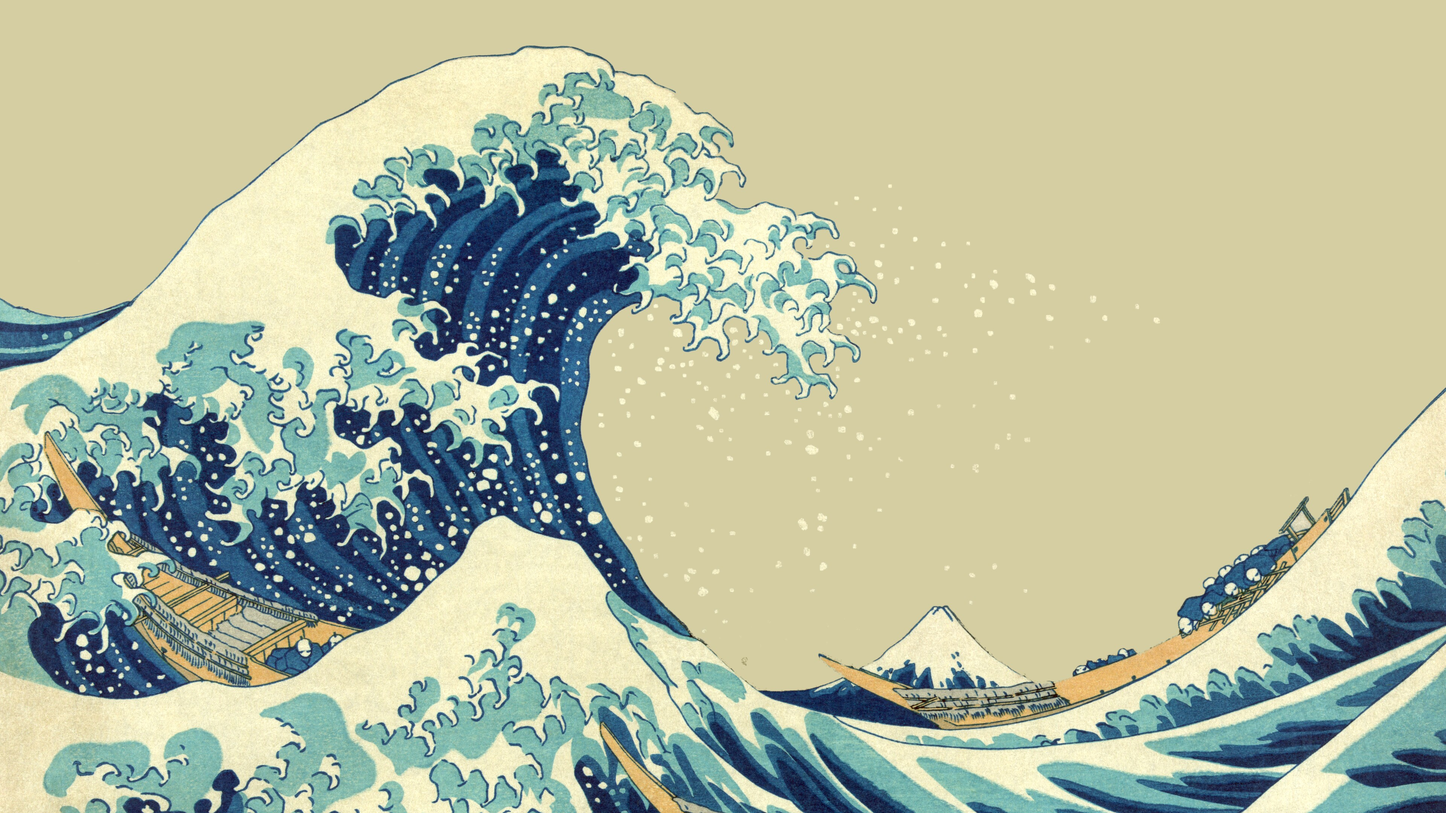
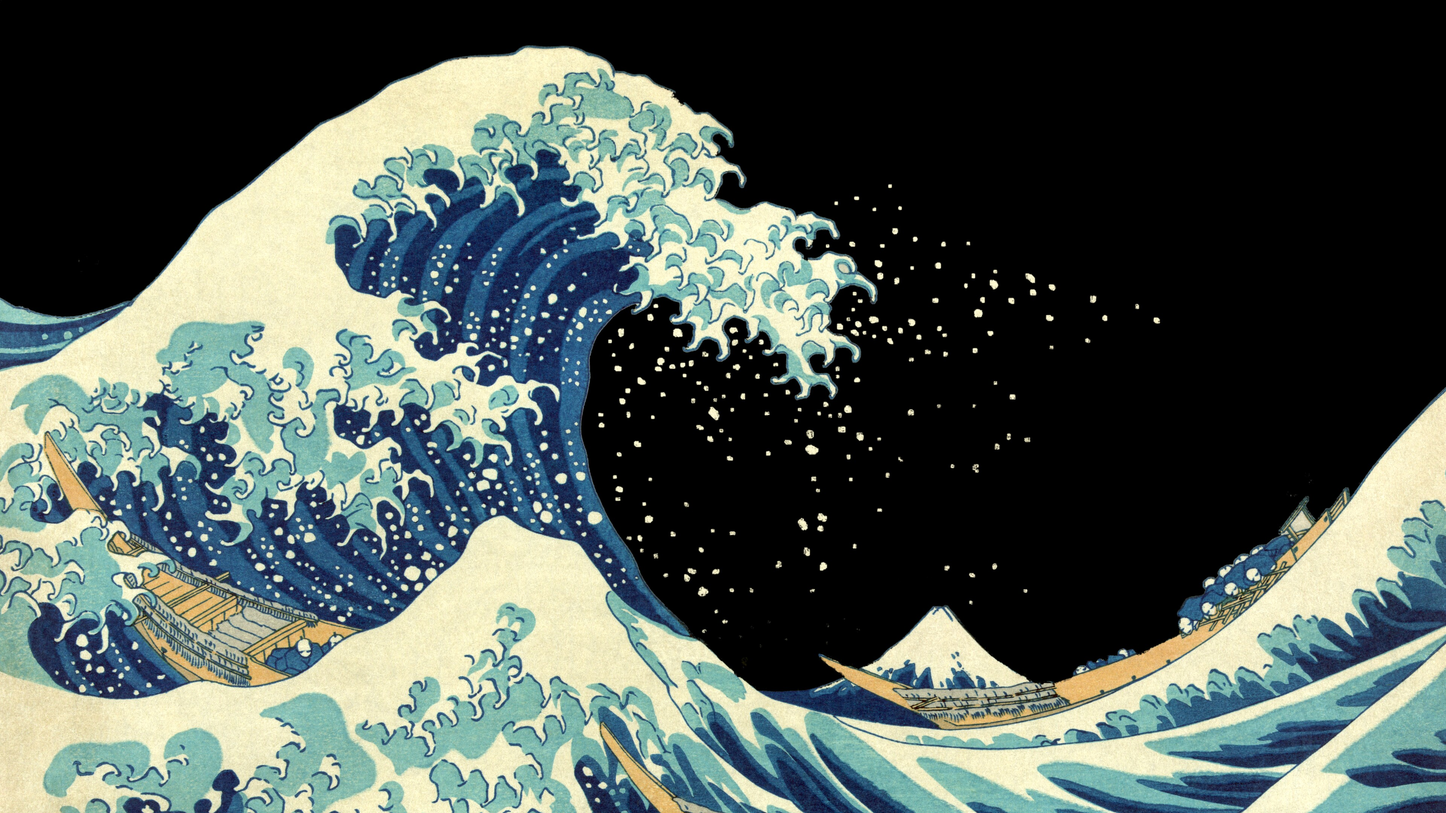
fix: make the OLED wallpapers true black and the dim wallpaper lighter
OLED pixels only switch off at true black, so the OLED Great Wave now has a #000000 sky instead of ui.bg_m3. The dim Great Wave, also the login screen background, now lies under a 35% tint of ui.bg instead of 70%.

diff --git a/scripts/wallpapers.py b/scripts/wallpapers.py
@@ -4,7 +4,7 @@
 Downloads public-domain Hokusai prints (The Met's Open Access collection, CC0, and one
 restored scan from Wikimedia Commons), crops each to its printed area and to 16:9, and
 writes 3840x2160 JPEGs. It also writes palette versions of The Great Wave per variant:
-monochrome ones, and an "OLED" one with the wave on a near-black background.
+monochrome ones, and an "OLED" one with the wave on true black.
 Needs ImageMagick 7 and network access.
 
 Usage: scripts/wallpapers.py [path/to/palette.json]   (default: ../.github/palette.json)
@@ -106,15 +106,18 @@ OLED_ERASE = [(68, 42, 124, 229), (0, 118, 70, 250)]
 # px outside SPRAY (x0, y0, x1, y1), where Hokusai's spray dots are.
 SPECK, SPECK_OUTSIDE, SPRAY = 60, 750, (1560, 450, 3420, 1880)
 # Circle wallpapers: the wave, as printed and mirrored, cut into a circle ("WxH+X+Y" of the print),
-# centered on each ANSI color and on true black for OLED screens. #000000 is not a
-# palette color; it is there because OLED pixels only switch off at true black.
+# centered on each ANSI color and on true black for OLED screens. OLED is the same
+# black as the OLED wallpaper.
 CIRCLE_CROP, CIRCLE_SIZE = "5440x5440+511+195", 800
 # "Side" wallpaper: a large circle left of center,
 # leaving the right of the screen empty for widgets or the SilentSDDM login form.
 SIDE_SIZE, SIDE_CENTER = 1500, (1150, 1080)
-# "Dim" wallpaper, also the login screen background: the restored print under ui.bg at
-# DIM percent, so light text reads over its sky.
-DIM = 70
+# "Dim" wallpaper, also the login screen background: the restored print under a light
+# tint of ui.bg, DIM percent.
+DIM = 35
+# #000000 is not a palette color; OLED wallpapers use it because OLED pixels only switch
+# off at true black.
+OLED = "#000000"
 ANSI = ["black", "red", "green", "yellow", "blue", "magenta", "cyan", "white"]
 # Pixels on the sky's edge stay only if they look like the print: light paper (foam),
 # blue (wave) or warm yellow (boats). Lab channels scaled to 0..1; sampled from the print.
@@ -240,12 +243,12 @@ def main():
             package(
                 f"kanagawa-{v}-great-wave-oled",
                 f"Kanagawa {cap} Great Wave (OLED)",
-                f"The Great Wave by Katsushika Hokusai, its sky replaced with Kanagawa {cap} ui.bg_m3.",
+                f"The Great Wave by Katsushika Hokusai, its sky replaced with true black.",
                 authors,
                 page,
                 license_,
                 [*cutout(src, alpha, ["-crop", crop, "+repage", "-resize", f"{SIZE}!"]),
-                 "-background", hexify(r["ui.bg_m3"]), "-alpha", "remove", "-alpha", "off"],
+                 "-background", OLED, "-alpha", "remove", "-alpha", "off"],
             )
             package(
                 f"kanagawa-{v}-great-wave-dim",
@@ -269,7 +272,7 @@ def main():
                  "-composite"],
             )
             for mirror, art in discs.items():
-                for name, bg in [*((c, hexify(r[f"term.{c}"])) for c in ANSI), ("oled", "#000000")]:
+                for name, bg in [*((c, hexify(r[f"term.{c}"])) for c in ANSI), ("oled", OLED)]:
                     package(
                         f"kanagawa-{v}-great-wave-circle{mirror}-{name}",
                         f"Kanagawa {cap} Great Wave circle{mirror.replace('-', ', ')} ({name})",

diff --git a/README.md b/README.md
@@ -157,9 +157,9 @@ Each variant also has versions of the restored Great Wave in its palette:
 | Ink       | `ui.fg` lines on `ui.bg`                                                                                                                                        |
 | Blue      | inverted, a `syn.fun` wave on `ui.bg`                                                                                                                           |
 | Paper     | inverted, a `ui.fg_dim` wave on `ui.bg`                                                                                                                         |
-| OLED      | the print's own colors; the sky, title and signature replaced by `ui.bg_m3`                                                                                     |
+| OLED      | the print's own colors; the sky, title and signature replaced by true black (`#000000`)                                                                         |
 | Circle    | the wave in a circle, as printed and mirrored, its sky cut away, centered on one of `term.black` to `term.white`, or on true black (`#000000`) for OLED screens |
-| Dim       | the full print under `ui.bg` at 70%, so light text reads over it; also the login screen background                                                              |
+| Dim       | the full print under a 35% tint of `ui.bg`; also the login screen background                                                                                    |
 | Side      | the wave in a large circle on the left of `ui.bg_m3`, leaving the right empty                                                                                   |
 
 ## Palette
